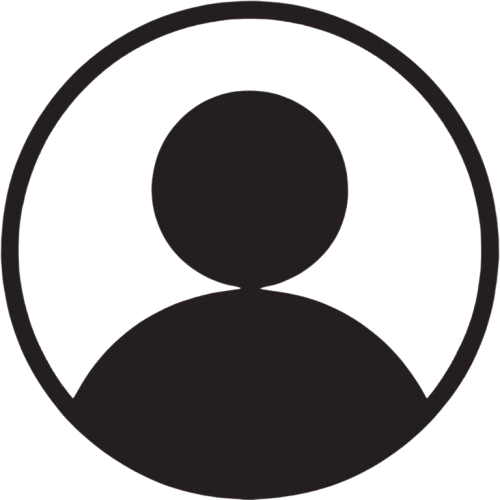
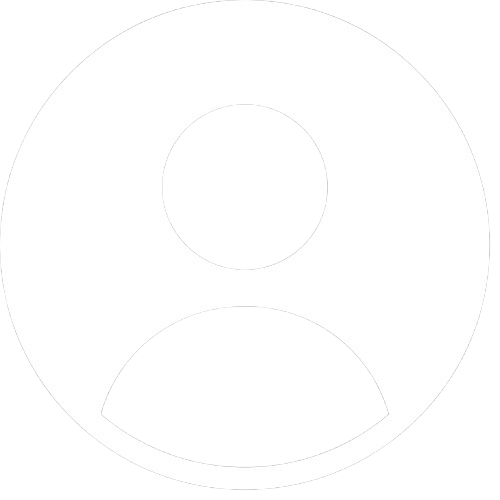
alteração

diff --git a/css/variables.css b/css/variables.css
@@ -1,37 +1,24 @@
 :root {
-  /* === Paleta principal — CWB Malls === */
-
-  /* Azul profundo — cor institucional, header, footer, nav */
   --color-primary: #1B3A6B;
   --color-primary-dark: #122851;
-
-  /* Dourado — botões principais, destaques, CTAs */
   --color-secondary: #C9971A;
   --color-secondary-dark: #A87C14;
 
-  /* Aliases para compatibilidade com arquivos existentes */
   --color-terracotta: #C9971A;
   --color-terracotta-dark: #A87C14;
 
-  /* Dourado claro — estrelas, badges, ícones especiais */
   --color-accent: #F0C040;
 
-  /* Fundos */
-  --color-background: #F4F6F9;   /* cinza-azulado leve — fundo das páginas */
-  --color-surface: #FFFFFF;       /* branco puro — cards e painéis */
+  --color-background: #F4F6F9;   
+  --color-surface: #FFFFFF;       
 
-  /* Textos */
-  --color-text: #1A1A2E;          /* quase preto com tom azul — legível e elegante */
-  --color-text-secondary: #5A6380; /* cinza-azulado médio — textos secundários */
+  --color-text: #1A1A2E;         
+  --color-text-secondary: #5A6380; 
+  --color-border: #D8DDE8;     
 
-  /* Bordas */
-  --color-border: #D8DDE8;        /* cinza frio leve */
-
-  /* Tipografia */
   --font-heading: "Playfair Display", Georgia, serif;
   --font-body: "Inter", Arial, sans-serif;
 
-  /* Utilitários */
   --radius-sm: 8px;
   --radius-md: 14px;
   --shadow-card: 0 4px 16px rgba(27, 58, 107, 0.10);

diff --git a/css/components/header/header.css b/css/components/header/header.css
@@ -1,6 +1,6 @@
 .header {
     display: flex;
-    background-color: var(--color-terracotta);
+    background-color: var(--color-primary);
     align-items: center;
     gap: 840px;
     padding: 20px 18px 18px 20px;
@@ -10,19 +10,19 @@
 .logo-h img {
     width: 178;
     height: 90px;
-    margin: 0 0 0 10px;
+    margin: 0 0 10px 30px;
 }
 
 .texto-h  {
-    color: var(--color-text);
+    color: var(--color-surface  );
     font-size: 9px;
     letter-spacing: 0.3px;
-    gap: 20px;
+    margin: 0 0 0 180px;
+
 }
 
 .perfil-h img {
-    margin-top: 2%;
-    margin-left: 18%;
+    margin: 0 0 0 10px;
     width: 45px;
     height: 45px;
 }

diff --git a/css/pages/registration.css b/css/pages/registration.css
@@ -173,7 +173,7 @@
     padding: 12px 24px;
     border: 0;
     border-radius: 4px;
-    background-color: var(--color-terracotta-dark);
+    background-color: var(--color-primary-dark);
     color: white;
     font-weight: 600;
     cursor: pointer;

diff --git a/css/components/footer/footer.css b/css/components/footer/footer.css
@@ -30,5 +30,5 @@
     color: var(--color-surface);
     font-size: 15px;
     letter-spacing: 0.3px;
-    margin: 70px 0 0 0;
+    margin: 70px 0 0 300px;
 }

diff --git a/css/components/carrossel/carrossel.css b/css/components/carrossel/carrossel.css
@@ -5,5 +5,5 @@
     box-shadow: 3px 5px 8px #00000033;
     display: flex;
     gap: 20px;
-    height: 305px;
+    height: 335px;
 }
